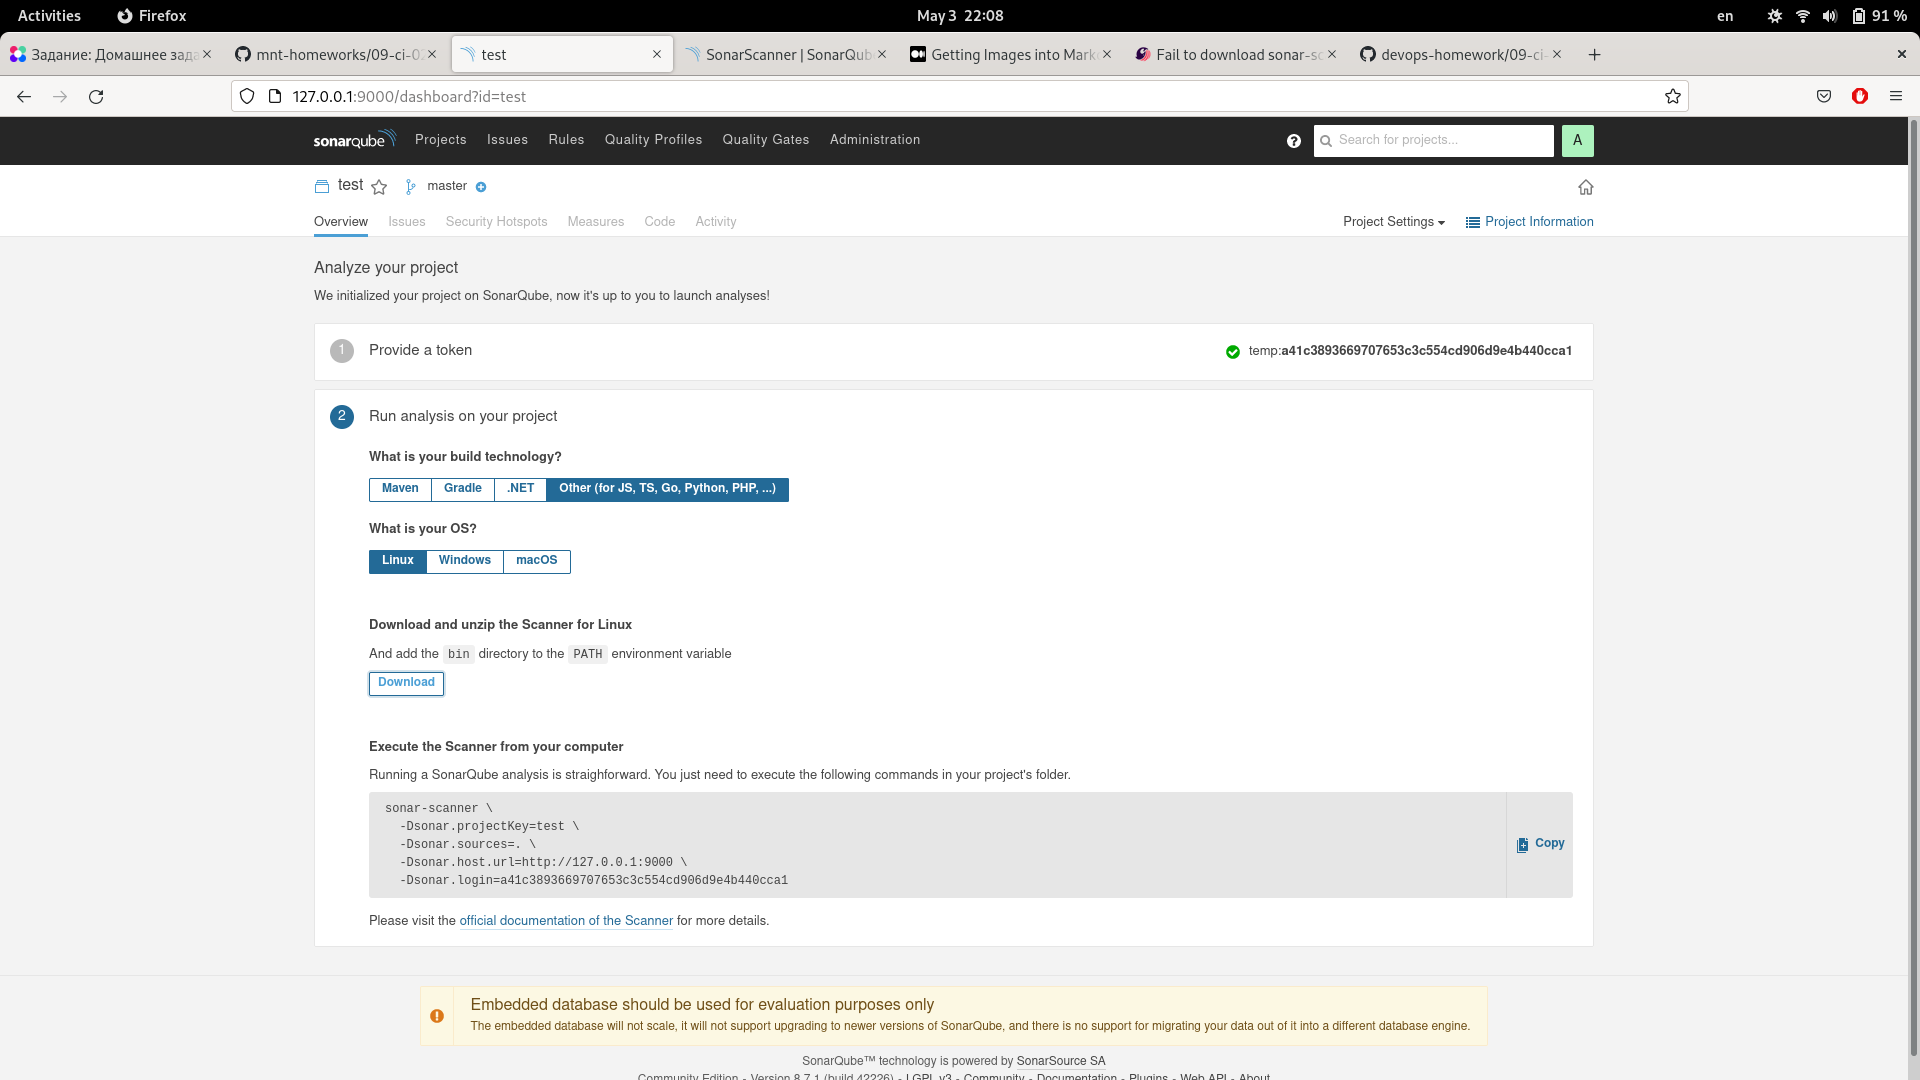
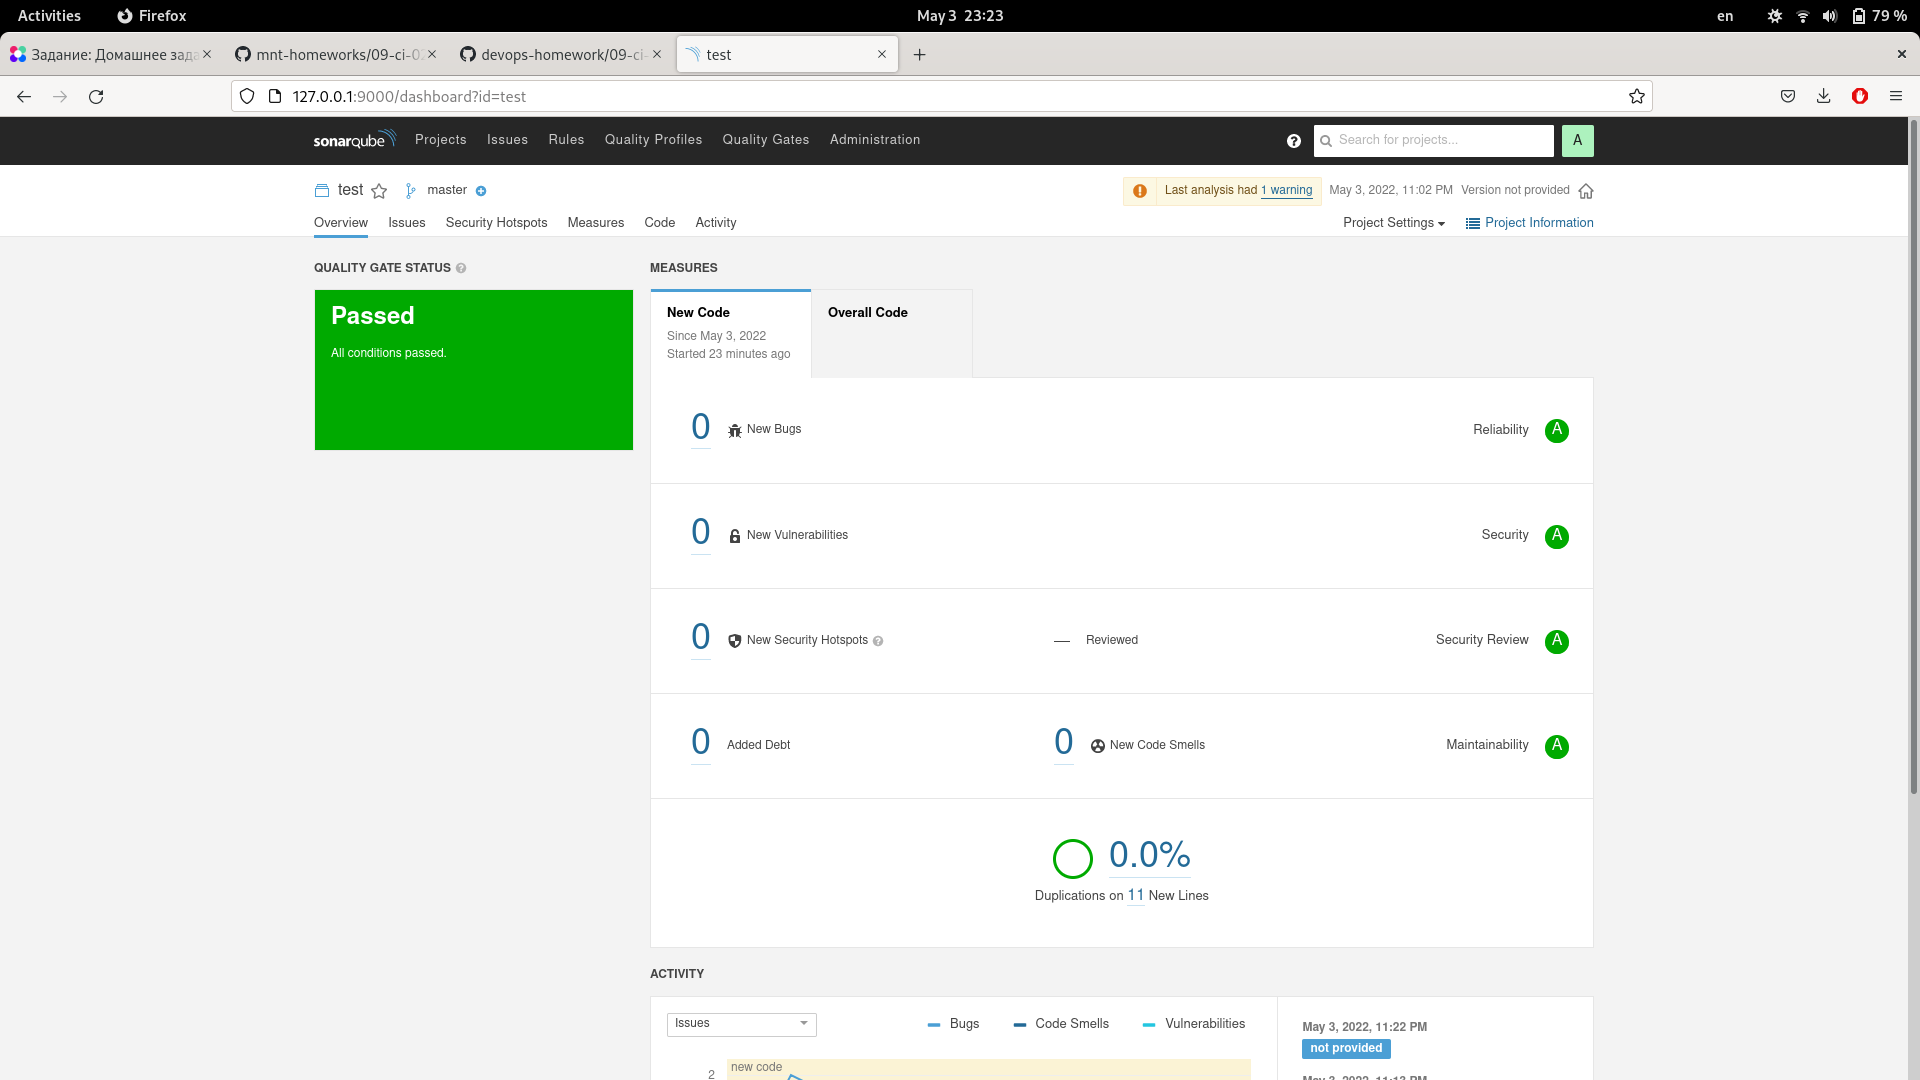
9.2

diff --git a/09-ci-02-cicd/fail.py b/09-ci-02-cicd/fail.py
@@ -1,0 +1,12 @@
+def increment(int):
+    index += 1
+    return index
+def get_square(numb):
+    return numb*numb
+def print_numb(numb):
+    print("Number is {}".format(numb))
+
+index = 0
+while (index < 10):
+    index = increment(index)
+    print(get_square(index))

diff --git a/09-ci-02-cicd/readme.md b/09-ci-02-cicd/readme.md
@@ -21,6 +21,19 @@
[1 lines of base64/hex data omitted]
 
 
-НЕ МОГУ ПОНЯТЬ, ГДЕ ВЗЯТЬ УСТАНОВОЧНЫЙ zip-ФАЙЛ, О КОТОРОМ ГОВОРИТСЯ В ДОКУМЕНТАЦИИ.
+ [ГДЕ ВЗЯТЬ УСТАНОВОЧНЫЙ zip-ФАЙЛ](https://binaries.sonarsource.com/?prefix=Distribution/sonar-scanner-cli/)
 
-![second](img/doc.png)
+		[v@nb-chernyshev devops-homework]$ sonar-scanner --version
+		INFO: Scanner configuration file: /home/v/bin/sonar-scanner/conf/sonar-scanner.properties
+		INFO: Project root configuration file: NONE
+		INFO: SonarScanner 4.7.0.2747
+		INFO: Java 11.0.14.1 Red Hat, Inc. (64-bit)
+		INFO: Linux 5.16.20-200.fc35.x86_64 amd64
+
+Запуск сканнера для файла fail.py: 
+
+		[v@nb-chernyshev 09-ci-02-cicd]$ sonar-scanner   -Dsonar.projectKey=test   -Dsonar.sources=.   -Dsonar.host.url=http://127.0.0.1:9000   -Dsonar.login=a41c3893669707653c3c554cd906d9e4b440cca1 -Dsonar.coverage.exclusions=fail.py
+
+Результат после исправления ошибок:
+
+![sq](img/sq.png)
